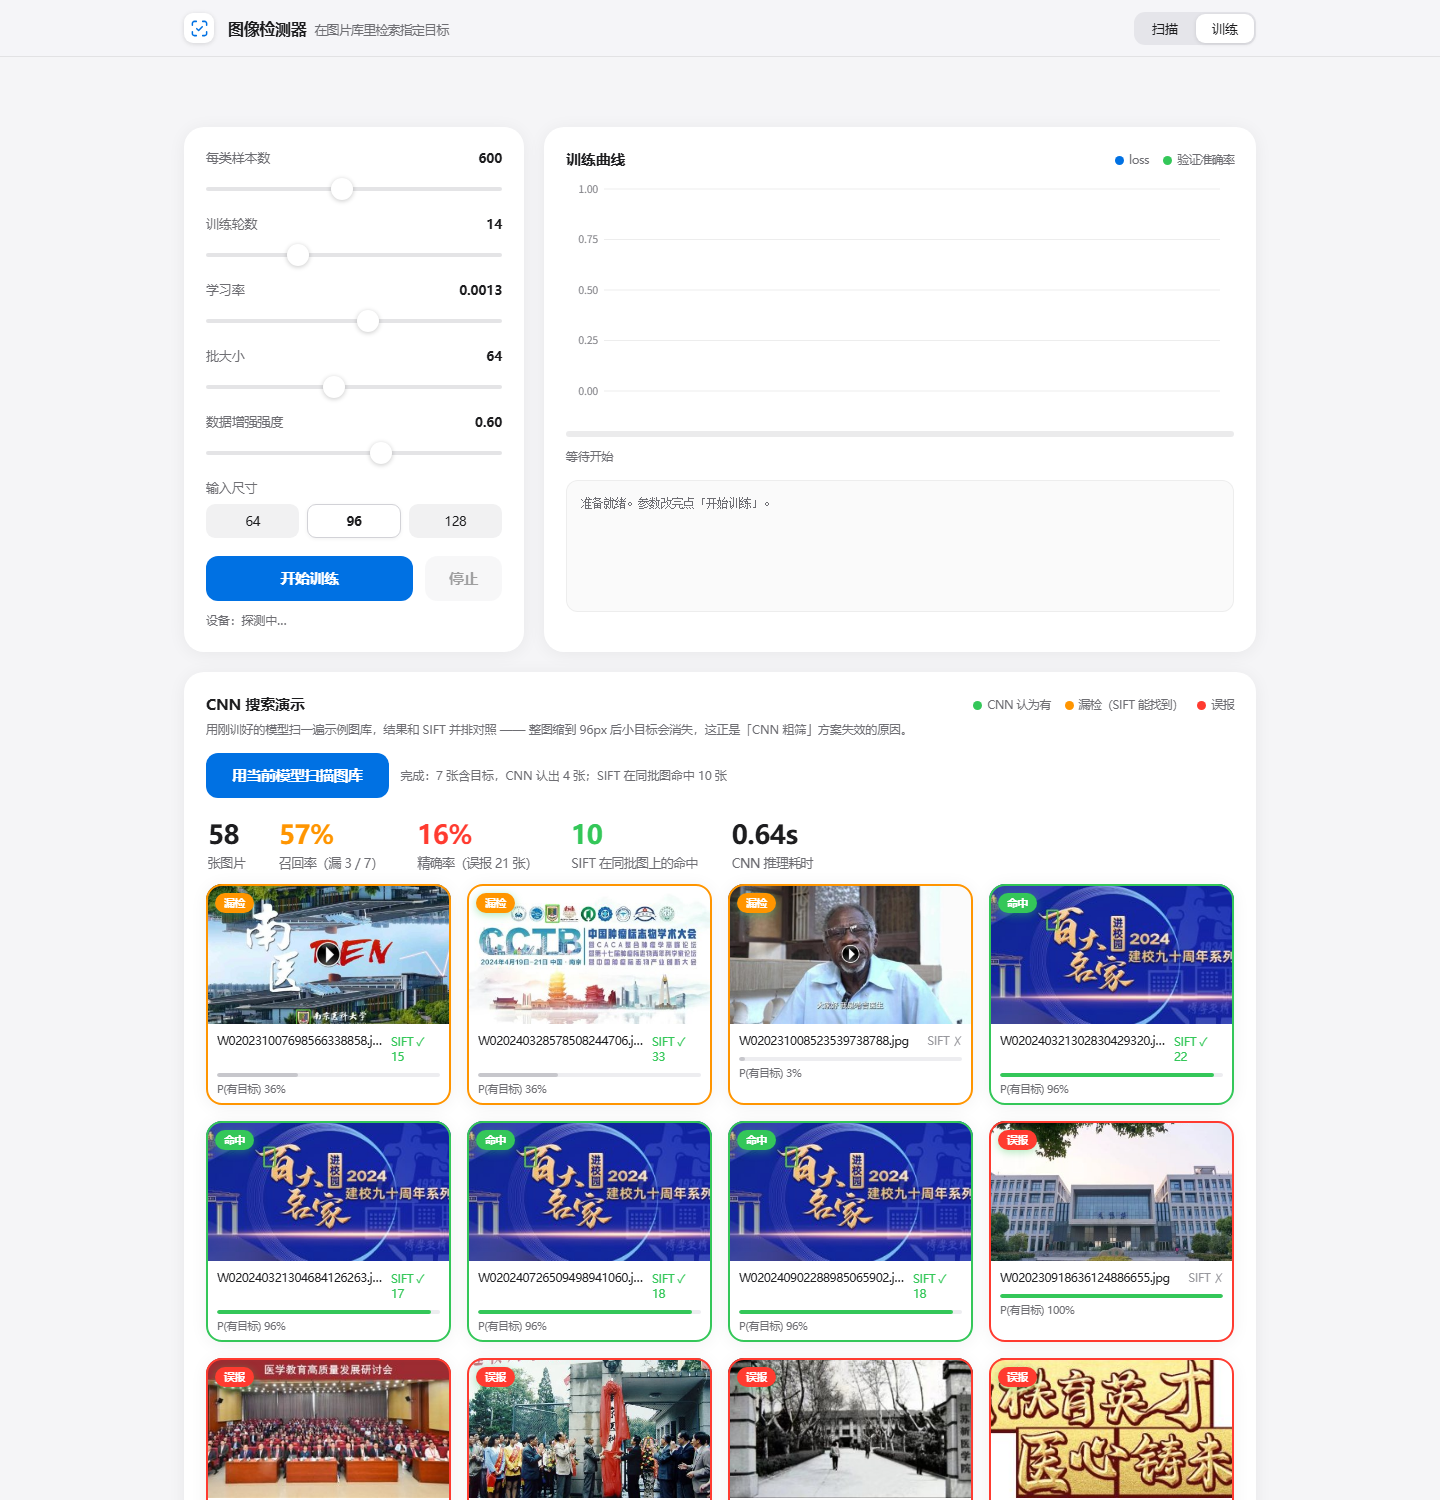
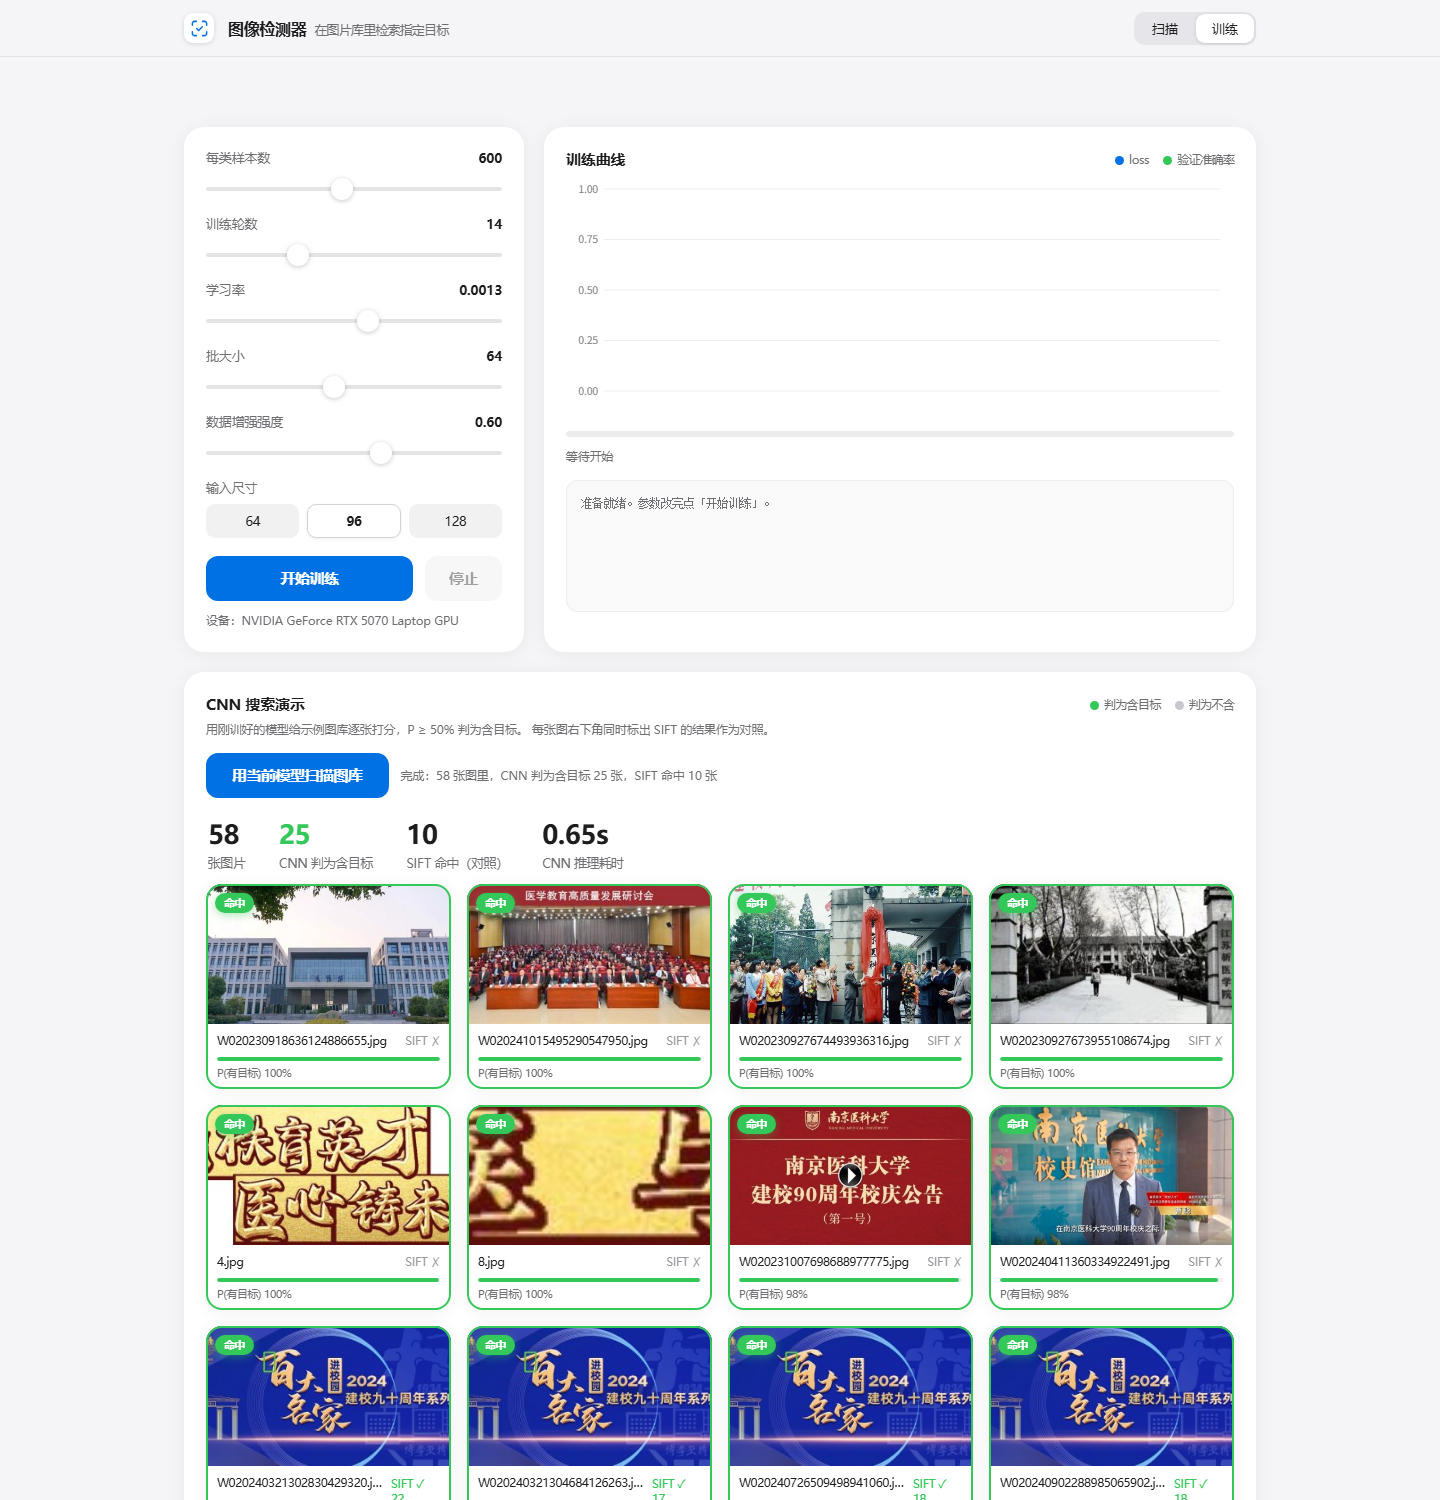
feat(ui): 支持在网页内更换检测模板；CNN 演示改为中性展示
- 扫描页顶部新增模板卡片：显示尺寸/特征点数，可上传替换或恢复默认
- 上传后立即重建检测器并清空缓存，无需重启
- 关键点 < 80 的模板直接拒绝（否则 RANSAC 会产生大量假匹配）
- 修复：并行扫描的子进程此前固定用默认模板，导致换模板不生效
- CNN 搜索演示去掉误报/漏检标注，改为按置信度排序 + 命中/未命中

diff --git a/src/app.py b/src/app.py
@@ -15,6 +15,7 @@ app.py — 图片目标检测器（苹果风双页：扫描 / 训练）
 from __future__ import annotations
 
 import argparse
+import base64
 import json
 import sys
 import time
@@ -36,6 +37,40 @@ DET: BadgeDetector | None = None
 CACHE: dict[str, dict] = {}
 DIR_CACHE: dict[str, dict] = {}
 SAMPLES = ROOT / "data" / "samples"
+CUSTOM_TPL = ROOT / "assets" / "custom_template.png"
+DEFAULT_TPL = ROOT / "assets" / "template.png"
+TPL_INFO: dict = {"source": "default", "path": str(DEFAULT_TPL),
+                  "width": 0, "height": 0, "keypoints": 0}
+
+
+def reload_detector(path: Path) -> dict:
+    """换模板 = 重建检测器 + 清空所有缓存。
+
+    关键点太少的模板（<80）会在 RANSAC 里靠运气凑出内点，产生大量假匹配，
+    所以直接拒绝使用。
+    """
+    global DET
+    probe = BadgeDetector(path)
+    kp = len(probe.kp_t)
+    if kp < 80:
+        raise ValueError(
+            f"这张图只提取到 {kp} 个特征点，太少，匹配会不可靠。"
+            "请换一张边缘清晰、细节丰富、长边 300px 以上的图")
+    DET = probe
+    CACHE.clear()
+    DIR_CACHE.clear()
+    TPL_INFO.update({"path": str(path), "width": DET.tw, "height": DET.th,
+                     "keypoints": kp,
+                     "source": "custom" if path == CUSTOM_TPL else "default"})
+    return dict(TPL_INFO)
+
+
+def template_info() -> dict:
+    if DET is None:
+        return dict(TPL_INFO)
+    TPL_INFO.update({"width": DET.tw, "height": DET.th,
+                     "keypoints": len(DET.kp_t)})
+    return dict(TPL_INFO)
 
 PAGE = r"""<!doctype html>
 <html lang="zh-CN"><head><meta charset="utf-8">
@@ -114,6 +149,16 @@ PAGE = r"""<!doctype html>
   .badge.miss{background:var(--orange)}
   .badge.fp{background:var(--red)}
   .badge.ok{background:#98989d}
+
+  /* 模板卡片 */
+  .tplcard{margin-top:26px;display:flex;align-items:center;gap:16px;
+           padding:16px 20px}
+  .tplcard img{width:52px;height:52px;object-fit:contain;border-radius:10px;
+           background:#fafafa;border:.5px solid var(--line);padding:3px}
+  .tplmeta{flex:1;min-width:0}
+  .tplname{font-size:13.5px;font-weight:600}
+  .tplsub{font-size:12px;color:var(--sub);margin-top:3px}
+  .tplsub.warn{color:var(--orange)}
   .tile .prob{height:4px;background:#ededf0;margin:0 11px;border-radius:4px;overflow:hidden}
   .tile .prob > div{height:100%;border-radius:4px}
   .tile .ptxt{padding:5px 11px 9px;font-size:10.5px;color:var(--sub);
@@ -190,7 +235,21 @@ PAGE = r"""<!doctype html>
 <section class="wrap" id="view-scan">
   <h1>在一堆图片里<br><span class="grad">找出含目标的那几张。</span></h1>
 
-  <div class="card" style="margin-top:26px">
+  <!-- 当前检测模板：可上传替换 -->
+  <div class="card tplcard">
+    <img id="tpl-img" src="/api/template/image" alt="template">
+    <div class="tplmeta">
+      <div class="tplname">当前检测模板</div>
+      <div class="tplsub" id="tpl-meta">加载中…</div>
+    </div>
+    <div class="row" style="flex:0 0 auto;gap:8px">
+      <button class="btn ghost" id="tpl-upload">更换模板</button>
+      <button class="btn ghost" id="tpl-reset">恢复默认</button>
+    </div>
+    <input type="file" id="tpl-file" accept="image/*" hidden>
+  </div>
+
+  <div class="card">
     <div class="row">
       <input type="text" id="path" placeholder="D:\photos">
       <button class="btn primary" id="go">开始扫描</button>
@@ -261,14 +320,13 @@ PAGE = r"""<!doctype html>
       <div class="chart-head">
         <h3>CNN 搜索演示</h3>
         <div class="legend">
-          <span><i style="background:#34c759"></i>CNN 认为有</span>
-          <span><i style="background:#ff9500"></i>漏检（SIFT 能找到）</span>
-          <span><i style="background:#ff3b30"></i>误报</span>
+          <span><i style="background:#34c759"></i>判为含目标</span>
+          <span><i style="background:#c7c7cc"></i>判为不含</span>
         </div>
       </div>
       <p class="hint" style="margin-top:2px">
-        用刚训好的模型扫一遍示例图库，结果和 SIFT 并排对照 ——
-        整图缩到 96px 后小目标会消失，这正是「CNN 粗筛」方案失效的原因。
+        用刚训好的模型给示例图库逐张打分，P ≥ 50% 判为含目标。
+        每张图右下角同时标出 SIFT 的结果作为对照。
       </p>
       <div class="row" style="margin-top:14px">
         <button class="btn primary" id="cnn-run" style="flex:0 0 auto;padding-left:26px;padding-right:26px">
@@ -341,6 +399,51 @@ async function scan(path){
 $('go').onclick = () => { const p=$('path').value.trim(); if(p) scan(p); };
 $('path').addEventListener('keydown', e=>{ if(e.key==='Enter'){
   const p=$('path').value.trim(); if(p) scan(p); }});
+
+/* ---------- 模板：查看 / 更换 / 恢复默认 ---------- */
+async function refreshTemplate(){
+  try{
+    const t = await (await fetch('/api/template')).json();
+    $('tpl-meta').textContent =
+      `${t.width}×${t.height} · ${t.keypoints} 个特征点 · ` +
+      (t.source === 'custom' ? '自定义' : '默认模板');
+    $('tpl-meta').classList.remove('warn');
+    $('tpl-img').src = '/api/template/image?t=' + Date.now();
+  }catch(e){ $('tpl-meta').textContent = '模板信息读取失败'; }
+}
+refreshTemplate();
+
+$('tpl-upload').onclick = () => $('tpl-file').click();
+$('tpl-file').onchange = e => {
+  const f = e.target.files[0];
+  if(!f) return;
+  const rd = new FileReader();
+  rd.onload = async ev => {
+    $('tpl-meta').textContent = '正在提取特征点…';
+    $('tpl-meta').classList.remove('warn');
+    try{
+      const r = await (await fetch('/api/template',{method:'POST',
+        headers:{'Content-Type':'application/json'},
+        body: JSON.stringify({image: ev.target.result})})).json();
+      if(r.error){ $('tpl-meta').textContent = r.error; $('tpl-meta').classList.add('warn'); return; }
+      await refreshTemplate();
+      if(r.warning){ $('tpl-meta').textContent = r.warning; $('tpl-meta').classList.add('warn'); }
+      grid.innerHTML=''; empty.classList.remove('hidden');
+      empty.innerHTML = '模板已更换<br>重新扫描生效';
+      stats.innerHTML = '';
+    }catch(err){ $('tpl-meta').textContent = '上传失败：' + err.message; }
+  };
+  rd.readAsDataURL(f);
+  e.target.value = '';
+};
+
+$('tpl-reset').onclick = async () => {
+  const r = await (await fetch('/api/template/reset',{method:'POST'})).json();
+  await refreshTemplate();
+  grid.innerHTML=''; stats.innerHTML='';
+  empty.classList.remove('hidden');
+  empty.innerHTML = '已恢复默认模板<br>重新扫描生效';
+};
 
 /* ---------- 训练 ---------- */
 const lrFromSlider = v => Math.pow(10, -4 + v/100*2);   // 1e-4 ~ 1e-2
@@ -489,37 +592,23 @@ $('cnn-run').onclick = async ()=>{
       headers:{'Content-Type':'application/json'}, body:'{}'})).json();
     if(r.error){ st.textContent = r.error; btn.disabled=false; btn.textContent='用当前模型扫描图库'; return; }
 
-    const missed = r.results.filter(x=>x.truth===1 && !x.cnn_found).length;
+    const hits = r.results.filter(x=>x.cnn_found).length;
     $('cnn-stats').classList.remove('hidden');
     $('cnn-stats').innerHTML = `
       <div class="stat"><b>${r.total}</b><span>张图片</span></div>
-      <div class="stat"><b style="color:#ff9500">${r.recall*100|0}%</b><span>召回率（漏 ${r.n_pos - r.tp} / ${r.n_pos}）</span></div>
-      <div class="stat"><b style="color:#ff3b30">${r.precision*100|0}%</b><span>精确率（误报 ${r.fp} 张）</span></div>
-      <div class="stat"><b class="hit">${r.sift_hits}</b><span>SIFT 在同批图上的命中</span></div>
+      <div class="stat"><b class="hit">${hits}</b><span>CNN 判为含目标</span></div>
+      <div class="stat"><b>${r.sift_hits}</b><span>SIFT 命中（对照）</span></div>
       <div class="stat"><b>${r.seconds}s</b><span>CNN 推理耗时</span></div>`;
 
-    // 排序：漏检 → 正确命中 → 误报 → 正确排除（每组内部按置信度排）
-    const score = x => {
-      if (x.truth===1 && !x.cnn_found) return 0;   // 漏检
-      if (x.truth===1 &&  x.cnn_found) return 1;   // 正确命中
-      if (x.truth===0 &&  x.cnn_found) return 2;   // 误报
-      return 3;                                     // 正确排除
-    };
-    const sorted = [...r.results].sort((a,b)=> score(a)-score(b) || b.prob-a.prob);
+    // 只按置信度排序，不做对错标注
+    const sorted = [...r.results].sort((a,b)=> b.prob - a.prob);
     const LIMIT = 24;
     const showN = Math.min(LIMIT, sorted.length);
     const card = x => {
-      const miss = x.truth===1 && !x.cnn_found;
-      const fp   = x.truth===0 && x.cnn_found;
-      const cls  = miss ? 'miss' : (fp ? 'fp' : (x.cnn_found ? 'hit' : ''));
-      const tag  = miss ? '<span class="badge miss">漏检</span>'
-                 : fp   ? '<span class="badge fp">误报</span>'
-                 : x.cnn_found ? '<span class="badge">命中</span>'
-                 : '<span class="badge ok">正确排除</span>';
       const siftTxt = x.sift_found === null ? '' :
         `<span style="color:${x.sift_found?'#34c759':'#98989d'}">SIFT ${x.sift_found?('✓ '+x.sift_inliers):'✗'}</span>`;
-      return `<div class="tile ${cls}">
-        ${tag}
+      return `<div class="tile ${x.cnn_found?'hit':''}">
+        ${x.cnn_found?'<span class="badge">命中</span>':''}
         <img loading="lazy" src="/api/thumb?path=${encodeURIComponent(x.file)}" alt="">
         <div class="cap"><i title="${x.name}">${x.name}</i>${siftTxt}</div>
         <div class="prob"><div style="width:${Math.max(2,x.prob*100)}%;
@@ -538,7 +627,7 @@ $('cnn-run').onclick = async ()=>{
     if (more) more.onclick = () => {
       $('cnn-grid').innerHTML = sorted.map(card).join('');
     };
-    st.textContent = `完成：${r.n_pos} 张含目标，CNN 认出 ${r.tp} 张；SIFT 在同批图命中 ${r.sift_hits} 张`;
+    st.textContent = `完成：${r.total} 张图里，CNN 判为含目标 ${hits} 张，SIFT 命中 ${r.sift_hits} 张`;
   }catch(e){
     st.textContent = '出错：' + e.message;
   }
@@ -651,6 +740,12 @@ class Handler(BaseHTTPRequestHandler):
             self._json(DIR_CACHE.get(key) or {"empty": True})
         elif u.path == "/api/train/status":
             self._json(trainer.status())
+        elif u.path == "/api/template":
+            self._json(template_info())
+        elif u.path == "/api/template/image":
+            p = Path(template_info()["path"])
+            data = p.read_bytes() if p.exists() else b""
+            self._send(200, data, "image/png")
         elif u.path == "/api/thumb":
             self._thumb(parse_qs(u.query))
         else:
@@ -695,7 +790,9 @@ class Handler(BaseHTTPRequestHandler):
                 t0 = time.time()
                 files = list(iter_images(folder, True))[:1500]
                 from parallel_scan import scan_paths
-                results = scan_paths(files, workers=8)
+                # 关键：把当前模板路径传下去，否则子进程会用默认模板
+                results = scan_paths(files, workers=8,
+                                     template_path=template_info()["path"])
                 for rec in results:
                     CACHE[rec["file"]] = rec
                 secs = round(time.time() - t0, 1)
@@ -710,7 +807,6 @@ class Handler(BaseHTTPRequestHandler):
             elif path == "/api/train/stop":
                 self._json(trainer.stop())
             elif path == "/api/cnn/scan":
-                # CNN 搜索演示：同时带上 SIFT 的结果做对照
                 cnn = trainer.scan_with_model(limit=60)
                 try:
                     sift = _sample_scan()
@@ -723,6 +819,50 @@ class Handler(BaseHTTPRequestHandler):
                     r["sift_inliers"] = int(s["inliers"]) if s else 0
                 cnn["sift_hits"] = sum(1 for r in cnn["results"] if r.get("sift_found"))
                 self._json(cnn)
+            elif path == "/api/template":
+                req = json.loads(body or b"{}")
+                raw = req.get("image", "")
+                if not raw:
+                    self._json({"error": "没有收到图片"}, 400)
+                    return
+                b64 = raw.split(",", 1)[1] if "," in raw else raw
+                data = base64.b64decode(b64)
+                arr = np.frombuffer(data, np.uint8)
+                img = cv2.imdecode(arr, cv2.IMREAD_UNCHANGED)
+                if img is None:
+                    self._json({"error": "图片解码失败，换 PNG / JPG 试试"}, 400)
+                    return
+                # 带 alpha 的图合成到白底（SIFT 要的是灰度纹理）
+                if img.ndim == 3 and img.shape[2] == 4:
+                    a = img[:, :, 3:4].astype(np.float32) / 255.0
+                    bgr = img[:, :, :3].astype(np.float32)
+                    img = (bgr * a + 255.0 * (1 - a)).astype(np.uint8)
+                elif img.ndim == 2:
+                    img = cv2.cvtColor(img, cv2.COLOR_GRAY2BGR)
+                # 长边限制在 800，太大反而慢且没必要
+                h, w = img.shape[:2]
+                if max(h, w) > 800:
+                    s = 800 / max(h, w)
+                    img = cv2.resize(img, None, fx=s, fy=s,
+                                     interpolation=cv2.INTER_AREA)
+                CUSTOM_TPL.parent.mkdir(parents=True, exist_ok=True)
+                cv2.imwrite(str(CUSTOM_TPL), img)
+                try:
+                    info = reload_detector(CUSTOM_TPL)
+                except ValueError as e:
+                    CUSTOM_TPL.unlink(missing_ok=True)
+                    self._json({"error": str(e)}, 400)
+                    return
+                warn = None
+                if info["keypoints"] < 400:
+                    warn = (f"模板只有 {info['keypoints']} 个特征点，偏少，"
+                            "目标细节越多（文字、花纹）效果越好")
+                self._json({"ok": True, "warning": warn, **info})
+            elif path == "/api/template/reset":
+                if CUSTOM_TPL.exists():
+                    CUSTOM_TPL.unlink()
+                info = reload_detector(DEFAULT_TPL)
+                self._json({"ok": True, **info})
             else:
                 self._send(404, b"not found", "text/plain; charset=utf-8")
         except Exception as e:  # noqa: BLE001
@@ -735,10 +875,12 @@ def main():
     ap.add_argument("--port", type=int, default=8770)
     ap.add_argument("--host", default="127.0.0.1")
     args = ap.parse_args()
-    DET = BadgeDetector()
+    init_tpl = CUSTOM_TPL if CUSTOM_TPL.exists() else DEFAULT_TPL
+    info = reload_detector(init_tpl)
     srv = ThreadingHTTPServer((args.host, args.port), Handler)
     print(f"图像检测器已启动： http://{args.host}:{args.port}")
-    print(f"模板 {DET.tw}×{DET.th}，SIFT 点 {len(DET.kp_t)}")
+    print(f"模板 {info['width']}×{info['height']}，SIFT 点 {info['keypoints']}"
+          f"（{info['source']}）")
     print("训练池：" + ("已就绪" if (ROOT / 'data' / 'train_pool.npz').exists()
                         else "缺失，请运行 src/build_train_pool.py"))
     try:

diff --git a/README.md b/README.md
@@ -136,6 +136,11 @@ python src/app.py            # 打开 http://127.0.0.1:8770
 - `?view=train` 直接进训练页
 - `?dir=D:\photos` 打开就自动扫这个文件夹
 
+**在网页里直接换目标**：扫描页顶部有「当前检测模板」卡片，
+点「更换模板」上传一张图即可 —— 后台会立刻重建 SIFT 检测器并清空缓存，
+不需要重启服务、也不用改代码。关键点少于 80 的模板会被拒绝（特征太少，
+RANSAC 会靠运气凑内点产生假匹配）。
+
 ### 命令行（推荐批量）
 
 ```bash
